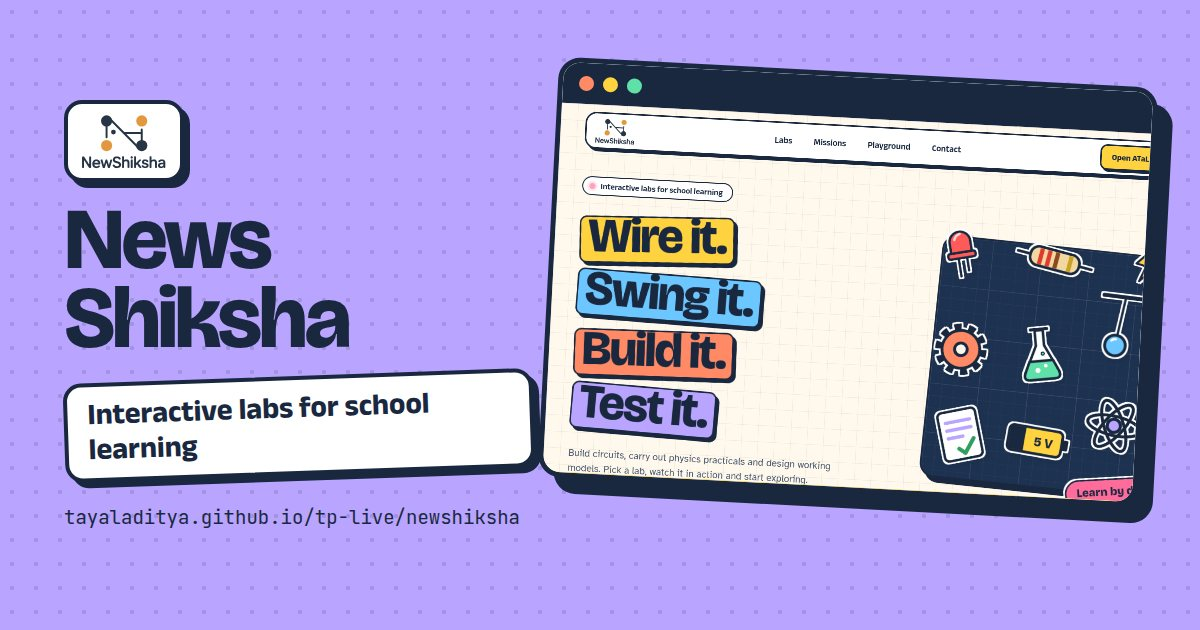
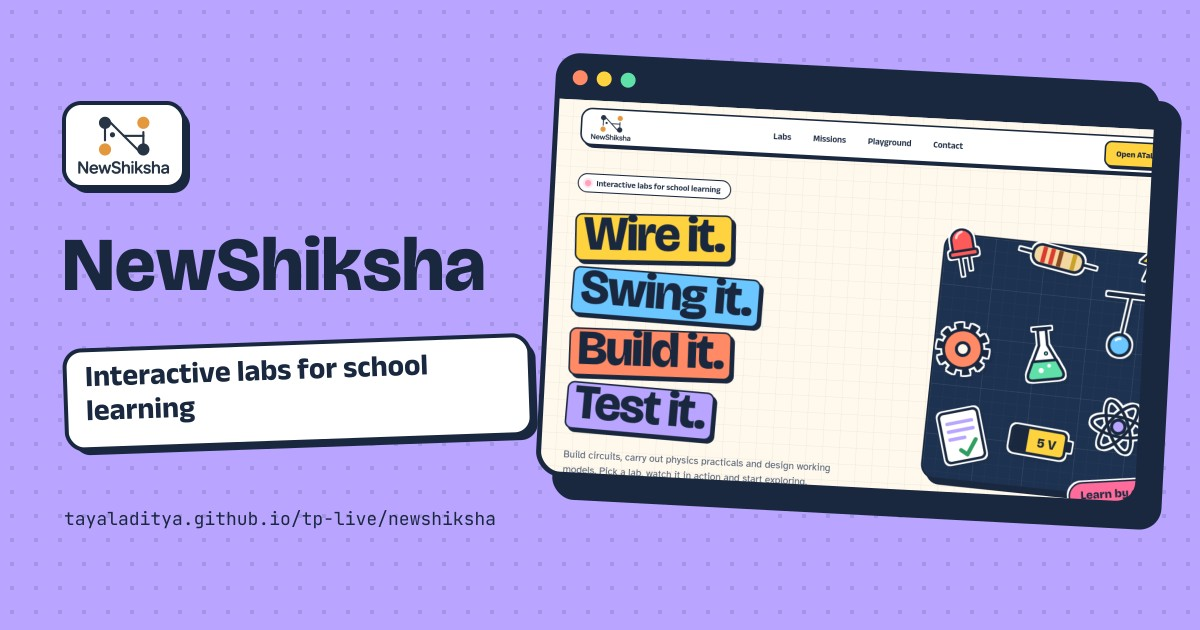
Public link

Changed region(s): [[0.0308, 0.0603, 0.9867, 0.8444], [0.0617, 0.8143, 0.4317, 0.8444]]

diff --git a/newshiksha/index.html b/newshiksha/index.html
@@ -3,17 +3,17 @@
 <head>
 <meta charset="utf-8">
 <meta name="viewport" content="width=device-width, initial-scale=1">
-<title>Opening the lab</title>
+<title>NewShiksha | Interactive learning workspaces</title>
 <meta property="og:type" content="website">
-<meta property="og:title" content="News Shiksha | Interactive learning workspaces">
-<meta property="og:site_name" content="News Shiksha">
+<meta property="og:title" content="NewShiksha | Interactive learning workspaces">
+<meta property="og:site_name" content="NewShiksha">
 <meta name="description" content="Interactive labs for school learning. Build circuits, carry out physics practicals and design working models.">
 <meta property="og:description" content="Interactive labs for school learning. Build circuits, carry out physics practicals and design working models.">
 <meta property="og:url" content="https://tayaladitya.github.io/tp-live/newshiksha/">
-<meta property="og:image" content="https://tayaladitya.github.io/tp-live/newshiksha/preview.jpg">
+<meta property="og:image" content="https://tayaladitya.github.io/tp-live/newshiksha/preview-newshiksha-v2.jpg">
 <meta property="og:image:width" content="1200">
 <meta property="og:image:height" content="630">
-<meta property="og:image:alt" content="News Shiksha | Interactive learning workspaces">
+<meta property="og:image:alt" content="NewShiksha | Interactive learning workspaces">
 <meta name="twitter:card" content="summary_large_image">
 <style>
   :root { --page: #eef1f5; --card: #fff; --ink: #172033; --muted: #6b7486; --rule: #d7dde7; --accent: #1f7a4d; }
